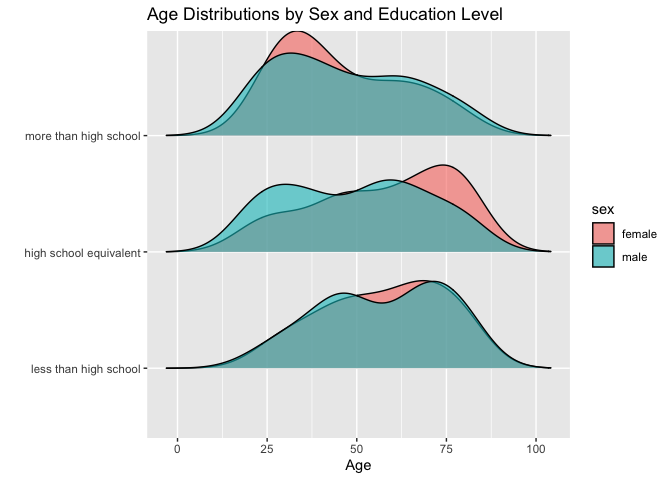
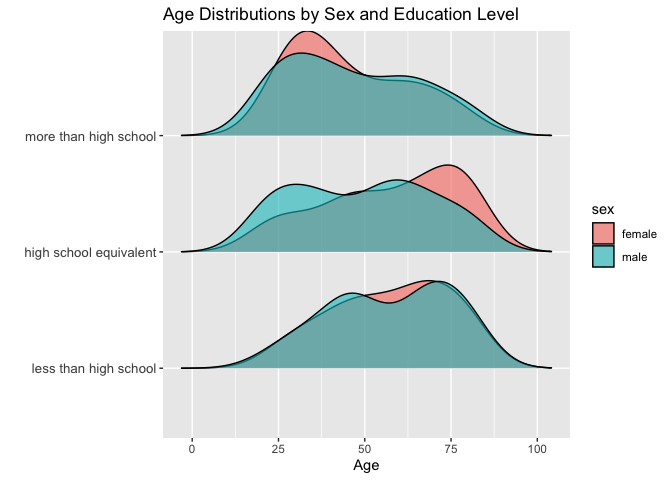
answer problem #2 and improve formatting for better readability

diff --git a/p8105_hw3_bk2959.md b/p8105_hw3_bk2959.md
@@ -5,6 +5,8 @@ Stella Koo
 
 ## Problem 2
 
+### Joining datasets
+
 ``` r
 library(tidyverse)
 
@@ -38,6 +40,8 @@ accel_df = read_csv("./nhanes_accel.csv") |>
 merged_df = inner_join(covar_df, accel_df, by = "seqn")
 ```
 
+### Number of men and women in each education category
+
 ``` r
 edu_sex_counts = merged_df |>
   group_by(sex, education) |>
@@ -57,7 +61,7 @@ edu_sex_counts
 | high school equivalent | male   |    35 |
 | more than high school  | male   |    56 |
 
-The count data provides valuable insights into educational attainment by
+The count data provides valuable insights into educational levels by
 `sex`. Notably, females slightly outnumber males in the
 `more than high school` category (59 vs. 56) and also maintain a small
 lead in the `less than high school` category (28 vs. 27). The highest
@@ -68,6 +72,8 @@ particularly among females (23). These patterns suggest that a
 substantial number of both sexes are advancing their education beyond
 high school.
 
+### Age Distributions by Sex and Education Level
+
 ``` r
 library(ggridges)
 
@@ -76,7 +82,8 @@ age_distributions = merged_df |>
   geom_density_ridges(alpha = 0.6, scale = 0.9) +
   labs(title = "Age Distributions by Sex and Education Level", 
        x = "Age",
-       y = "")
+       y = "") +
+  theme(axis.text.y = element_text(size = 10))
 
 age_distributions
 ```
@@ -99,6 +106,8 @@ individuals. The data, thus, suggests a trend of younger individuals
 attaining higher levels of education, while older individuals,
 particularly females, are more likely to fall into lower education
 categories.
+
+### Total Activity by Age and Sex across Education Levels
 
 ``` r
 total_activity_df = merged_df |>
@@ -137,6 +146,8 @@ other two education categories, with a more substantial decline observed
 in total activity around the late 60s. This data suggests that
 individuals with higher education experience less severe declines in
 total activity compared to those with lower educational attainment.
+
+### 24-Hour Activity by Sex across Education Levels
 
 ``` r
 inspection_df = merged_df |>
@@ -201,3 +212,224 @@ likely to maintain a more stable level of activity, potentially due to
 structured daily routines.
 
 ## Problem 3
+
+### Combining datasets
+
+``` r
+jan2020 = read_csv("./citibike/jan2020.csv") |>
+  janitor::clean_names() |>
+  mutate(month = "January",
+         year = "2020")
+
+july2020 = read_csv("./citibike/july2020.csv") |>
+  janitor::clean_names() |>
+    mutate(month = "July",
+         year = "2020")
+
+jan2024 = read_csv("./citibike/jan2024.csv") |>
+  janitor::clean_names() |>
+    mutate(month = "January",
+         year = "2024")
+
+july2024 = read_csv("./citibike/july2024.csv") |>
+  janitor::clean_names() |>
+    mutate(month = "July",
+         year = "2024")
+
+citibike = bind_rows(jan2020, july2020, jan2024, july2024) |>
+  select(ride_id, year, month, weekdays, everything())
+
+citibike
+```
+
+    ## # A tibble: 99,485 × 9
+    ##    ride_id        year  month weekdays rideable_type duration start_station_name
+    ##    <chr>          <chr> <chr> <chr>    <chr>            <dbl> <chr>             
+    ##  1 4BE06CB33B037… 2020  Janu… Tuesday  classic_bike     15.3  Columbus Ave & W …
+    ##  2 26886E0349744… 2020  Janu… Wednesd… classic_bike      5.31 2 Ave & E 96 St   
+    ##  3 24DC56060EBE6… 2020  Janu… Friday   classic_bike      9.69 Columbia St & Riv…
+    ##  4 EEDC1053582D0… 2020  Janu… Sunday   classic_bike      7.00 W 84 St & Columbu…
+    ##  5 2CD4BD4CEE2E5… 2020  Janu… Friday   classic_bike      2.85 Forsyth St & Broo…
+    ##  6 E18682F9A4E50… 2020  Janu… Sunday   classic_bike     25.5  Allen St & Hester…
+    ##  7 B9B2E8960A71A… 2020  Janu… Sunday   classic_bike      3.65 Lafayette St & Je…
+    ##  8 DEF8F50495E64… 2020  Janu… Sunday   classic_bike     38.3  28 Ave & 44 St    
+    ##  9 17D44DA993F32… 2020  Janu… Thursday classic_bike     38.5  Barrow St & Hudso…
+    ## 10 0FD113A309327… 2020  Janu… Tuesday  classic_bike      6.52 Carlton Ave & Par…
+    ## # ℹ 99,475 more rows
+    ## # ℹ 2 more variables: end_station_name <chr>, member_casual <chr>
+
+The combined dataset captures detailed information about Citi Bike
+riders during four distinct time periods: January 2020, July 2020,
+January 2024, and July 2024. Key variables include the type of bike used
+(`rideable_type`), indicating whether the rider chose a classic or
+electric bike, and the `duration` of each ride in minutes. The dataset
+also includes the `start_station_name` and `end_station_name`,
+pinpointing where each ride began and ended, and records the rider’s
+membership status (`member_casual`), distinguishing between members of
+the system and casual riders.
+
+### Total number of rides in each time period per type of member
+
+``` r
+total_rides = citibike |>
+  group_by(year, month, member_casual) |>
+  summarize(total_rides = n()) |>
+  knitr::kable()
+
+total_rides
+```
+
+| year | month   | member_casual | total_rides |
+|:-----|:--------|:--------------|------------:|
+| 2020 | January | casual        |         984 |
+| 2020 | January | member        |       11436 |
+| 2020 | July    | casual        |        5637 |
+| 2020 | July    | member        |       15411 |
+| 2024 | January | casual        |        2108 |
+| 2024 | January | member        |       16753 |
+| 2024 | July    | casual        |       10894 |
+| 2024 | July    | member        |       36262 |
+
+The table presents the total number of rides for each period and type of
+member (`casual` or `member`). The data reveals a consistent pattern in
+Citi Bike usage where members outnumber casual riders in every month
+analyzed. This indicates that the majority of users are regular
+subscribers. Additionally, a marked seasonal difference is observed,
+with significantly more riders in July compared to January across both
+years, likely due to more favorable weather conditions.
+
+Both casual and member ridership has experienced growth over time, with
+casual riders increasing in each time period. Members demonstrate even
+more pronounced growth, peaking at 36,262 rides in July 2024. This
+substantial increase in both casual and member rides, particularly
+during the summer of 2024, underscores the growing popularity of Citi
+Bike.
+
+### 5 most popular starting stations for July 2024
+
+``` r
+july2024_popular_start = july2024 |>
+  group_by(start_station_name) |>
+  summarize(number_of_rides = n()) |>
+  top_n(5, number_of_rides) |>
+  knitr::kable()
+
+july2024_popular_start
+```
+
+| start_station_name       | number_of_rides |
+|:-------------------------|----------------:|
+| Pier 61 at Chelsea Piers |             163 |
+| University Pl & E 14 St  |             155 |
+| W 21 St & 6 Ave          |             152 |
+| W 31 St & 7 Ave          |             146 |
+| West St & Chambers St    |             150 |
+
+### Effects of day of the week, month, and year on median ride duration
+
+``` r
+median_duration_df = citibike |>
+  mutate(weekdays = factor(weekdays, levels = c("Monday", "Tuesday", "Wednesday", "Thursday", "Friday", "Saturday", "Sunday"))) |>
+  group_by(year, month, weekdays) |>
+  summarize(median_duration = median(duration))
+
+median_duration_plot = median_duration_df |> 
+  ggplot(aes(x = weekdays, y = median_duration, group = month, color = month)) + 
+  geom_point() + 
+  geom_line() +
+  facet_wrap(~ year) +
+  labs(
+    title = "Median Ride Duration by Day of the Week, Month, and Year",
+    x = "Day of the Week",
+    y = "Median Ride Duration (minutes)",
+    color = "Month"
+  ) +
+  theme(axis.text.x = element_text(angle = 45))
+
+median_duration_plot
+```
+
+![](p8105_hw3_bk2959_files/figure-gfm/unnamed-chunk-10-1.png)<!-- --> In
+2020, ride durations were significantly lower in January compared to
+July. During January, riders tended to have longer durations on
+Saturdays and Sundays, while weekday durations remained relatively
+stable throughout the week. In July, there was a notable increase in
+ride durations from weekdays to weekends. This trend highlights a
+substantial preference for longer rides on weekends during the peak
+summer season.
+
+By 2024, ride durations in January continued to be lower than in July,
+but the decrease was less pronounced than in 2020. Interestingly,
+January 2024 saw a slight increase in ride durations throughout the
+week, with a notable decrease from Saturday to Sunday. Conversely, in
+July 2024, there was an upward trend in ride durations from weekdays to
+weekends, reinforcing the ongoing preference for weekend and summer
+rides among Citi Bike users.
+
+When comparing the two years, 2020 exhibited a greater overall median
+ride duration. Specifically, in January 2020, ride durations ranged from
+approximately 7.8 to 10.0 minutes, while in January 2024, they fell
+below 7.8 minutes. July displayed the most significant differences, with
+July 2020 ride durations exceeding 12.5 minutes, compared to July 2024,
+where the median was below 11 minutes.
+
+### Impact of month, membership status, and bike type on ride duration in 2024
+
+``` r
+duration_distribution = bind_rows(jan2024, july2024) |>
+  ggplot(aes(x = duration, y = rideable_type, fill = month)) +
+  geom_density_ridges(scale = 0.85, alpha = 0.5) +
+  facet_grid(~ member_casual) +
+  xlim(0, 100) +
+  labs(title = "Distribution of Ride Durations by Month, Membership Status, and Bike Type in 2024",
+       x = "Ride Duration (minutes)",
+       y = "",
+       fill = "Month") +
+  theme(axis.text.y = element_text(size = 10),
+        plot.title = element_text(size = 12))  
+
+duration_distribution
+```
+
+    ## Warning: Removed 198 rows containing non-finite outside the scale range
+    ## (`stat_density_ridges()`).
+
+![](p8105_hw3_bk2959_files/figure-gfm/unnamed-chunk-11-1.png)<!-- -->
+The plot provides valuable insights into the usage patterns of Citi Bike
+in 2024, with a focus on the distribution of ride duration based on
+month (`January` vs. `July`), membership type (`casual` vs. `member`),
+and bike type (`electric` vs. `classic`). The x-axis for ride duration
+was scaled between 0 to 100 minutes because the data was concentrated on
+the lower end, and including extreme values would have resulted in a
+skewed graph, hindering clear analysis of the distribution.
+
+- **Bike Type in Casual Riders:**
+  - Electric bikes showed a more skewed distribution, indicating that
+    casual riders tended to use electric bikes for shorter rides
+    compared to classic bikes. The peak usage of electric bikes was
+    concentrated in the lower duration range.
+  - Classic bikes had a slightly flatter distribution, suggesting that
+    casual riders may take slightly longer rides on these bikes.
+  - In January, ride durations for both bike types were generally
+    shorter compared to July, indicating seasonality’s influence, with
+    shorter rides in the winter.
+- **Bike Type in Members:**
+  - Ride duration for members was more consistent across bike types.
+    Both electric and classic bikes showed similar patterns, though
+    electric bikes had a slightly flatter distribution.
+  - Classic bikes showed almost no difference in ride duration between
+    January and July, while electric bikes saw a noticeable difference:
+    January had a greater proportion of shorter rides compared to July.
+  - This suggests that while members’ ride behavior remained relatively
+    stable, the type of bike and the time of year slightly influenced
+    their usage patterns.
+- **Casual vs Member Riders:**
+  - Casual riders exhibited a greater proportion of longer ride
+    durations, as shown by the flatter distribution, for both electric
+    and classic bikes. This likely reflects the fact that casual users
+    pay per ride, leading them to make the most of their usage with
+    longer trips.
+  - Members, on the other hand, had a tighter distribution, likely due
+    to the fact that they can use bikes at lower rates within specific
+    time limits. This suggests that members might take shorter, frequent
+    rides rather than longer trips.
